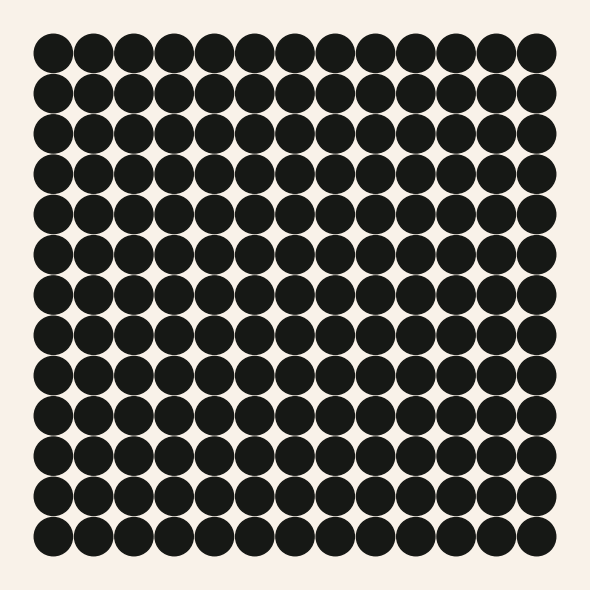
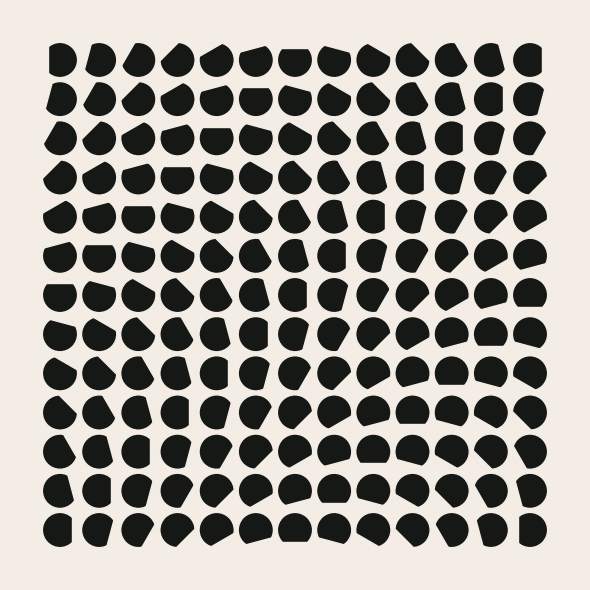
Julio Le Parc: finalise Rotations replication

diff --git a/julio-le-parc-replications/master_script.py b/julio-le-parc-replications/master_script.py
@@ -1,8 +1,9 @@
 import itertools
 
+import matplotlib.pyplot as plt
 import matplotlib.path as mpath
 import matplotlib.patches as mpatches
-import matplotlib.pyplot as plt
+import matplotlib.transforms as mtransforms
 
 import numpy as np
 
@@ -30,7 +31,7 @@ COLOURS = {
         "BLUE": "#1D119B",
     },
     "ROTATIONS": {
-        "OFF WHITE": "#F9F2E9",
+        "OFF WHITE": "#F4EDE5",
         "OFF BLACK": "#161815",
     },
     "ROTATION OF FRACTIONED CIRCLES": {
@@ -52,12 +53,11 @@ NUMBER_GRIDPOINTS_PER_SIDE = {
 }
 
 
-pad_points = 2
-number_points_per_side = 10
-grid_indices = range(number_points_per_side)
+IMAGE_PAD_POINTS = 2
 
 
-def create_linspaced_angles(max_coverage, min_coverage):
+def create_mutations_linspaced_angles(
+        max_coverage, min_coverage, number_points_per_side):
     """ TODO. """
     # NOTE: angles start pointing downwards i.e. 0 degs is south in PyPlot.
     # So red wedges are constrained to -135 to +45, blues to +45 to +225.
@@ -88,7 +88,8 @@ def create_linspaced_angles(max_coverage, min_coverage):
     return np.column_stack((theta1_min_to_max, theta2_min_to_max))
 
 
-def create_mutation_angles_array(grid_indices, is_red=True):
+def create_mutation_angles_array(
+        grid_indices, is_red=True, number_points_per_side=5):
     """ TODO. """
     angles_array = np.zeros(
         (number_points_per_side, number_points_per_side),
@@ -97,12 +98,16 @@ def create_mutation_angles_array(grid_indices, is_red=True):
 
     if is_red:
         index = 1
-        spaced_thetas = create_linspaced_angles(
-            max_coverage=(-135, 45), min_coverage=(-45, -45))
+        spaced_thetas = create_mutations_linspaced_angles(
+            max_coverage=(-135, 45), min_coverage=(-45, -45),
+            number_points_per_side=number_points_per_side,
+        )
     else:
         index = -1
-        spaced_thetas = create_linspaced_angles(
-            max_coverage=(45, 225), min_coverage=(135, 135))
+        spaced_thetas = create_mutations_linspaced_angles(
+            max_coverage=(45, 225), min_coverage=(135, 135),
+            number_points_per_side=number_points_per_side,
+        )
 
     # 1. Make first and last column correct:
     for j in grid_indices:
@@ -110,9 +115,36 @@ def create_mutation_angles_array(grid_indices, is_red=True):
         angles_array[-1][j] = spaced_thetas[::index][-j-1]
     # 2. Create rows linearly-spaced based on first and last columns:
     for i in grid_indices:
-        row_angles = create_linspaced_angles(
+        row_angles = create_mutations_linspaced_angles(
             max_coverage=angles_array[0][i],
             min_coverage=angles_array[-1][i],
+            number_points_per_side=number_points_per_side,
+        )
+        angles_array[i] = row_angles
+
+    return angles_array
+
+
+def create_rotations_angles_array(
+        grid_indices, number_points_per_side=5):
+    """ TODO. """
+    angles_array = np.zeros(
+        (number_points_per_side, number_points_per_side),
+        dtype=float
+    )
+
+    spaced_thetas = np.linspace(0, 180, number_points_per_side)
+    # +/- signs are to achieve clockwise angle changes as per the design
+    # 1. Make first and last column correct:
+    for j in grid_indices:
+        angles_array[0][j] = spaced_thetas[j]
+        angles_array[-1][j] = spaced_thetas[-j-1]
+    # 2. Create rows linearly-spaced based on first and last columns:
+    for i in grid_indices:
+        row_angles = np.linspace(
+            -angles_array[0][i],
+            angles_array[-1][i],
+            number_points_per_side,
         )
         angles_array[i] = row_angles
 
@@ -136,11 +168,29 @@ def plot_mutations_wedge(centre, theta1, theta2, colour):
     )
 
 
-def plot_rotations_patch(centre, colour):
+def plot_rotations_patch(
+        centre, rect_angle, foreground_colour, background_colour, ax):
     """ TODO. """
-    return mpatches.Circle(
-        centre, 0.475, color=colour
+    # These parameters are adapted to match the original design:
+    radius = 0.45
+    offset_amount = 0.3
+    padding = 0.03
+
+    # Note: get a very thin but still visible edge line on circle even if set
+    # linewidth to zero, so to workaround make edgecolour background colour.
+    patch = mpatches.Circle(
+        centre, radius, facecolor=foreground_colour,
+        edgecolor=background_colour,
     )
+    # The clipping rectangle, rotated appropriately (no need to rotate circle!)
+    clip_patch = mpatches.Rectangle(
+        (centre[0] + offset_amount, centre[1] - radius),
+        radius - offset_amount + padding,
+        2 * radius, color=background_colour,
+        transform=mtransforms.Affine2D().rotate_deg_around(
+            *centre, rect_angle) + ax.transData
+    )
+    return (patch, clip_patch)
 
 
 def plot_fractioned_circle_patch(centre, colour):
@@ -171,15 +221,20 @@ def plot_simple_cross(centre, base_theta, colour_1, colour_2):
 def plot_mutation_of_forms(axes):
     """ TODO. """
     design_name = "MUTATION OF FORMS"
-    grid_points = range(NUMBER_GRIDPOINTS_PER_SIDE[design_name])
+    points = NUMBER_GRIDPOINTS_PER_SIDE[design_name]
+    grid_points = range(points)
     for i, j in itertools.product(grid_points, grid_points):
         red_thetas = create_mutation_angles_array(
-            is_red=True, grid_indices=grid_points)[i][j]
+            is_red=True, grid_indices=grid_points,
+            number_points_per_side=points
+        )[i][j]
         blue_thetas = create_mutation_angles_array(
-            is_red=False, grid_indices=grid_points)[i][j]
+            is_red=False, grid_indices=grid_points,
+            number_points_per_side=points
+        )[i][j]
 
         # Now create and plot the wedges onto the canvas:
-        position_xy = (pad_points + i, pad_points + j)
+        position_xy = (IMAGE_PAD_POINTS + i, IMAGE_PAD_POINTS + j)
         red_wedge, blue_wedge = plot_mutations_wedges(
             position_xy, red_thetas, blue_thetas,
             colour_1=COLOURS[design_name]["RED"],
@@ -192,14 +247,24 @@ def plot_mutation_of_forms(axes):
 def plot_rotations(axes):
     """ TODO. """
     design_name = "ROTATIONS"
-    grid_points = range(NUMBER_GRIDPOINTS_PER_SIDE[design_name])
+    points = NUMBER_GRIDPOINTS_PER_SIDE[design_name]
+    grid_points = range(points)
+    angles_array = create_rotations_angles_array(
+        grid_points,
+        number_points_per_side=points
+    )
     for i, j in itertools.product(grid_points, grid_points):
-        # Now create and plot the wedges onto the canvas:
-        position_xy = (pad_points + i, pad_points + j)
-        axes.add_patch(plot_rotations_patch(
+        position_xy = (IMAGE_PAD_POINTS + i, IMAGE_PAD_POINTS + j)
+        circle, clipping_rectangle = plot_rotations_patch(
             position_xy,
-            colour=COLOURS[design_name]["OFF BLACK"],
-        ))
+            angles_array[i][j],
+            COLOURS[design_name]["OFF BLACK"],
+            COLOURS[design_name]["OFF WHITE"],
+            axes,
+        )
+        axes.add_patch(circle)
+        clipping_rectangle.set_clip_path(circle)
+        axes.add_patch(clipping_rectangle)
 
 
 def plot_rotation_of_fractioned_circles(axes):
@@ -208,7 +273,7 @@ def plot_rotation_of_fractioned_circles(axes):
     grid_points = range(NUMBER_GRIDPOINTS_PER_SIDE[design_name])
     for i, j in itertools.product(grid_points, grid_points):
         # Now create and plot the wedges onto the canvas:
-        position_xy = (pad_points + i, pad_points + j)
+        position_xy = (IMAGE_PAD_POINTS + i, IMAGE_PAD_POINTS + j)
         axes.add_patch(plot_fractioned_circle_patch(
             position_xy, colour=COLOURS[design_name]["LIGHT GREY"]))
 
@@ -220,7 +285,7 @@ def plot_rotation_in_red_and_black(axes):
         NUMBER_GRIDPOINTS_PER_SIDE[design_name])
     for i, j in itertools.product(grid_points, grid_points):
         # Now create and plot the wedges onto the canvas:
-        position_xy = (pad_points + i, pad_points + j)
+        position_xy = (IMAGE_PAD_POINTS + i, IMAGE_PAD_POINTS + j)
         red_line, black_line = plot_simple_cross(
             position_xy, 0,
             COLOURS[design_name]["RED"],
@@ -258,6 +323,8 @@ def format_canvas(design_name, patch_creation_func):
 
 def plot_and_save_design(design_name, plot_func, save_dir):
     background_col = format_canvas(design_name, plot_func)
+
+    import uuid
     plt.savefig(
         'img/{}/replication_of_original.png'.format(save_dir),
         format='png',
@@ -267,10 +334,12 @@ def plot_and_save_design(design_name, plot_func, save_dir):
 
 
 # Plot all four designs
-# TODO: note that only 1 is complete, 3-4 are yet to be fully coded up
+# TODO: note that only 1 and 2 complete; 3 and 4 are under development,
+# hence commented out for the moment.
 plot_and_save_design(
     "MUTATION OF FORMS", plot_mutation_of_forms, "mutation_of_forms")
 plot_and_save_design("ROTATIONS", plot_rotations, "rotations")
+"""
 plot_and_save_design(
     "ROTATION OF FRACTIONED CIRCLES", plot_rotation_of_fractioned_circles,
     "rotation_of_fractioned_circles"
@@ -279,5 +348,6 @@ plot_and_save_design(
     "ROTATION IN RED AND BLACK", plot_rotation_in_red_and_black,
     "rotation_in_red_and_black"
 )
+"""
 
 plt.show()
